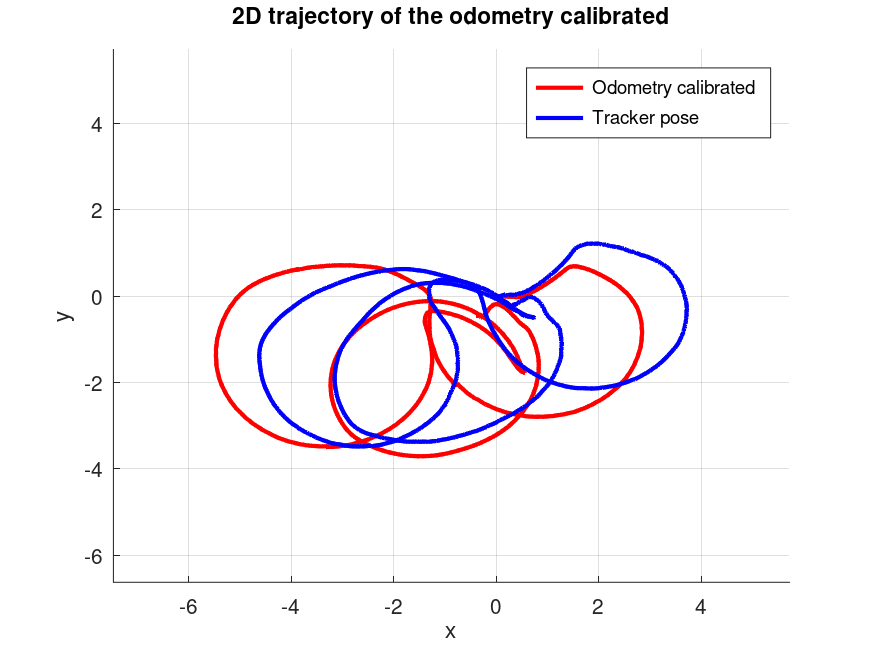
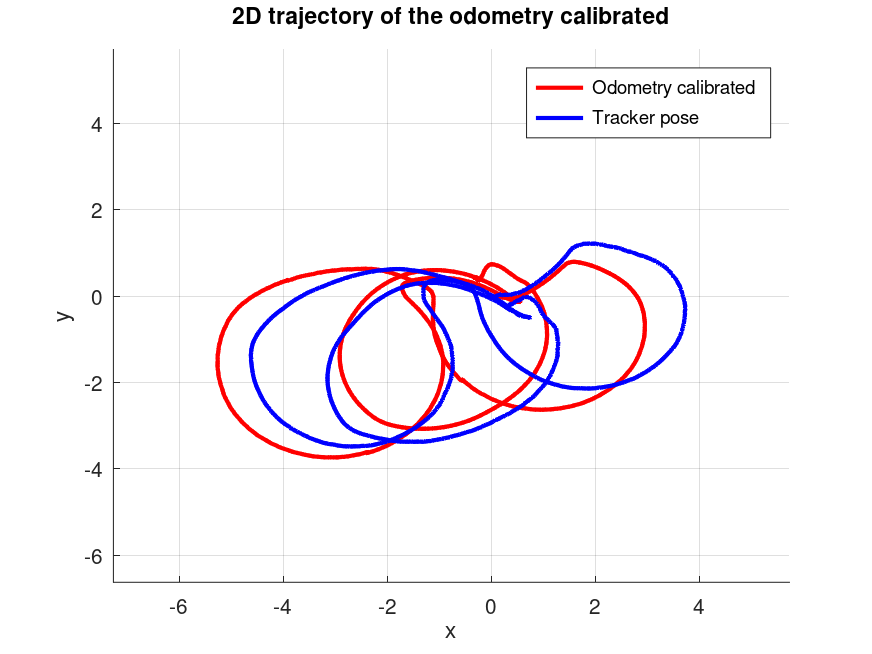
Updated: README

diff --git a/main.m b/main.m
@@ -55,9 +55,10 @@ pause(1);
 plot_odometry_error(model_pose, odometry_pose, h, time);
 pause(1);
 
+#start calibration
 odometry_pose = odometry_pose(:, 1:3);
-n_iter = 18;
-jacobian_type = false; #set true for numerical jacobian and false for analytical jacobian
+n_iter = 30;
+jacobian_type = true; #set true for numerical jacobian and false for analytical jacobian
 [X, laser_params, chi_stats, n_inliers] = odometry_calibration(odometry_pose, tracker_pose, n_iter, jacobian_type);
 
 disp('Correction matrix X:')
@@ -77,12 +78,13 @@ pause(1);
 plot_chi_stats(chi_stats, h);
 pause(1);
 
+#errors
 odometry_corrected = odometry_correction(X, laser_params, odometry_pose);
 error_before = mean(vecnorm(tracker_pose - odometry_pose(:, 1:3), 2, 2));
-
 odometry_corrected = to_tracker_frame(odometry_corrected, laser_params);
 error_after = mean(vecnorm(tracker_pose - odometry_corrected(:, 1:3), 2, 2));
 
+#results
 fprintf('\nCalibration results\n');
 fprintf('Mean error before calibration: %.4f m\n', error_before);
 fprintf('Mean error after calibration: %.4f m\n', error_after);

diff --git a/robot_calibration/calibration.m b/robot_calibration/calibration.m
@@ -230,14 +230,14 @@ function J = Jacobian_analytical(state, u, z)
            0,  0,       1];
 
   dlaser_x = [0, 0, 1; 
-               0, 0, 0;
-               0, 0, 0];
+              0, 0, 0;
+              0, 0, 0];
   dlaser_y = [0, 0, 0;
-               0, 0, 1;
-               0, 0, 0];
+              0, 0, 1;
+              0, 0, 0];
   dlaser_theta = [-s, -c, 0;
-                    c, -s, 0;
-                    0, 0,  0];
+                   c, -s, 0;
+                   0, 0,  0];
 
   J = zeros(3, 12);
   J(:, 1:3) = -u(1) * eye(3);

diff --git a/README.md b/README.md
@@ -12,7 +12,10 @@ The problem involves:
 - sensor positions with respect to an external tracking system
 
 In the following image we can observe the robot rappresentation:
-![robot](./images/robot.png)
+<p align="center">
+  <img src="./images/robot.png" alt = "robot" width = "600"/><br>
+  <em>Figure 1: The robot used for the calibration</em>
+</p>
 
 ## Dataset
 The dataset.txt file contains sensor data of a real robot:
@@ -71,22 +74,30 @@ The odometry function performs the following:
 
 ### Threshold for estimation process
 Different thresholds are applied to $x$, $y$, $\theta$, and $\phi$ during the estimation process to skip increments that are too small to provide meaningful information. These thresholds were tuned by testing various values and selecting those that yielded the best results in terms of L2 norm error:
-- with thresholds: L2 norm error -> mean 0.079684, min 0.000000 and max 0.172628.
-- without thresholds: L2 norm error -> mean 0.213036, min 0.000000 and max 0.496266.
+- L2 norm error with thresholds: mean 0.079684, min 0.000000 and max 0.172628.
+- L2 norm error without thresholds: mean 0.213036, min 0.000000 and max 0.496266.
 
-### Odometry trajectory:
-![trajectory](./output/odometry_estimated.png)
+### Odometry trajectory
+<p align="center">
+  <img src="./output/odometry_estimated.png" alt = "robot" width = "500"/><br>
+  <em>Figure 2: the estimated robot trajectory</em>
+</p>
+
 The plot shows that the estimated trajectory closely follows the ground truth of the odometry pose.
 
-### L2 norm error of odometry estimated:
-![L2_error_trajectory](./output/error_odometry_estimated.png)
+### L2 norm error of odometry estimated
+<p align="center">
+  <img src="./output/error_odometry_estimated.png" alt = "robot" width = "500"/><br>
+  <em>Figure 3: L2 norm error over the trajectory</em>
+</p>
+
 This plot illustrates the L2 norm error over the trajectory. Two kinematic models were compared during the trajectory estimation:
-- realistic model: $dx = v * cos(\theta)*cos(\phi)*\Delta t$ and $dy = v * sin(\theta)*cos(\phi)*\Delta t$
+- realistic model: $dx = v * cos(\theta) * cos(\phi) * \Delta t$ and $dy = v * sin(\theta) * cos(\phi) * \Delta t$
 - simplified model: $dx = v * cos(\theta) * \Delta t$ and $dy = v * sin(\theta) * \Delta t$
 
 For $d\theta$ and $d\phi$ were used the same equations:
-- $d\theta = v * (sin(d\phi)/axis\_length)*\Delta t$
-- $d\phi = d\phi*\Delta t$
+- $d\theta = v * (sin(d\phi) / \text{axis\_length}) * \Delta t$
+- $d\phi = d\phi * \Delta t$
 
 Surprisingly, the simplified model produced better performance. This is likely due to the fact that, in real-world conditions, the simplified model:
 - is more robust to sensor noise and calibration errors
@@ -94,14 +105,93 @@ Surprisingly, the simplified model produced better performance. This is likely d
 - avoids amplifying small errors from the steering angle in the translational motion
 
 L2 norm error:
-- realistic model (used in the implementation): mean 0.079684, min 0.000000 and max 0.172628
-- simplified model: mean 0.190549, min 0.000000 and max 0.306568.
+- realistic model: mean 0.190549, min 0.000000 and max 0.306568.
+- simplified model (used in the implementation): mean 0.079684, min 0.000000 and max 0.172628
 
 ## Robot calibration
+The calibration of a mobile robot’s odometry aims to systematically correct scale errors, angular inaccuracies, offsets in the kinematic model, and the transformation between the sensor and the robot base. This is achieved by comparing odometry data, based on encoders and kinematic models, with ground truth data provided by a tracking system.
+
+### Preprocessing
+From the odometry data, only the values $x$, $y$ and $\theta$ are used. (since the ground truth provides these three components).
+
+### Calibration
+The calibration algorithhm uses an iterative **Lenberg-Marquardt** optimization, combining **gradient descent** and the **Gauss-Newton method**.
+
+This approach estimates both:
+- the correction matrix X, which compensates for systematic odometric distortions
+- the trasformation of the laser with respect to the robot frame.
+
+The initial state vector is composed of:
+- the nine elements of the identity matrix, representing the initial guess for X
+- the initial guess of the laser trasformation $x$, $y$, and $\theta$
+
+The optimization is based on minimizing the error between the incremental poses obtained from odometry and the tracking system, also considering the laser transformation.
+Convergence is controlled by:
+- the update step norm $||\Delta x||$
+- the variation in the chi-square value between successive iterations
+- a counter for consecutive rejected steps.
+
+To avoid numerical instability a damping factor is introduced (computed from the largest diagonal element of the Hessian matrix).
+
+The odometry calibration returns several outputs:
+- a correction matrix X (3x3)
+- the estimated laser pose with respect to the robot base
+- chi-square error statistics for each iteration
+- the number of inliers used in the optimization.
+
+It is also possible to choose the number of iterations and whether to use an analytical or numerical Jacobian.
+
+### Odometry correction
+Once the correction matrix X is estimated, the corrected odometry trajectory is computed. The odometry\_correction function applies X to the odometry increments, correcting systematic distortions and reconstructing the trajectory step by step. Afterward, the function to\_tracker\_frame converts the corrected trajectory from the robot frame to the tracker frame, using the estimated laser transformation.
+
+In summary, raw odometry data are corrected using both:
+- the correction matrix X
+- the transformation of the laser with respect to the base.
+
+The mean error between the odometry and the tracking data is computed both before and after calibration.
+
+The generated plots show the effect of the calibration:
+- corrected odometry vs. ground truth
+- corrected vs. true orientation
+
+<p align="center">
+  <img src="./output/odometry_calibrated.png" alt = "Odometry corrected vs. ground truth" width = "450"/>
+  <img src="./output/theta_calibrated.png" alt = "Theta comparison" width = "450"/>
+</p>
+<p align="center">
+  <em>Figure 4: Calibrated odometry vs. ground truth (left) and calibrated orientation comparison (right)</em>
+</p>
+
+Additionally, the L2 error over time is plotted:
+
+<p align="center">
+  <img src="./output/error_odometry_estimated.png" alt = "robot" width = "500"/><br>
+  <em>Figure 6: L2 norm error</em>
+</p>
+
+### Analysis of calibrated parameters
+The initial kinematic parameters (ksteer, ktraction, steer offset and baseline) are updated based on the estimated correction matrix X.
+
+Each parameter is rescaled by the corresponding coefficient from X, allowing the calibrated model to better reflect the true motion behavior of the robot.
+
+### Correction matrix X analysis
+The correction matrix X compensates for systematic odometric errors:
+- scaling factors in $x$, $y$ and $\theta$
+- cross-couplig effects between $x$ and $y$ directions.
+
+### Final verification
+The effectiveness of the calibration is assessed by:
+- the reduction of the final chi-square value
+- the decrease in the mean error, L2 norm, between the corrected trajectory and the ground truth
+- the number of inliers in each iteration
+
+The chi-square value is a robust statistical metric for evaluating how well the model fits the observed data. A decrease in both chi-square and mean error indicates that the calibration effectively compensates for odometric distortions and improves the accuracy of the motion estimation.
 
 ## Output
-- estimated 2D position of the sensor w.r.t. the base link
-- estimated kinematic parameters: Ksteer, Ktraction, steer offset and base line.
+- estimated 2D position of the laser sensor with respect to the robot's base link
+- calibrated kinematic parameters: Ksteer, Ktraction, steer offset and baseline.
+
+The output results and images are in the folder: ``` ./output ```
 
 ## How run the code
 ```shell
